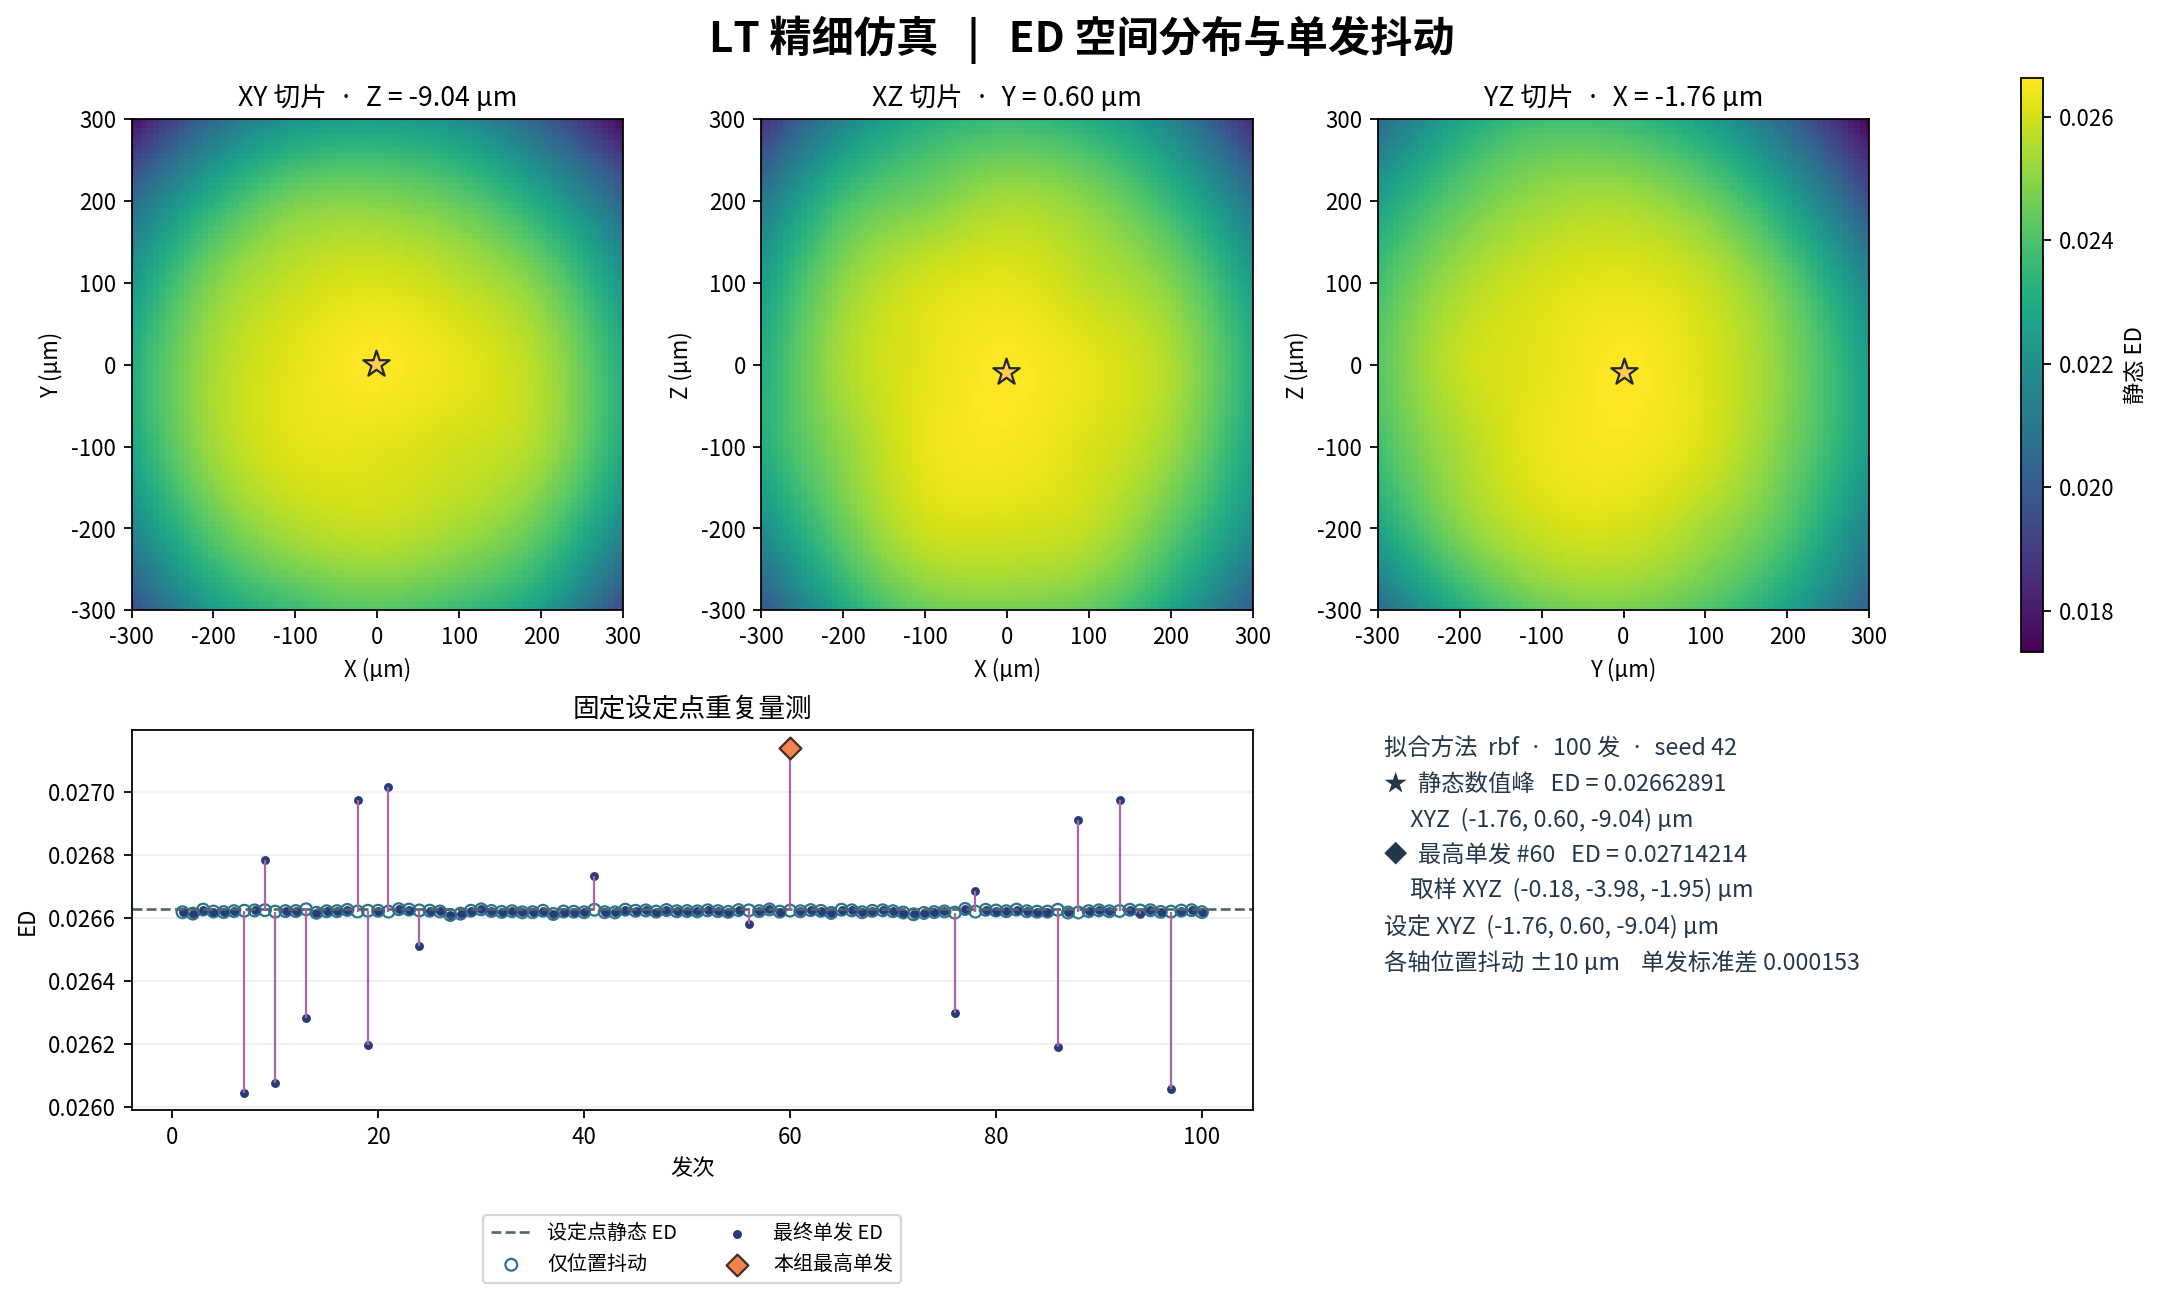
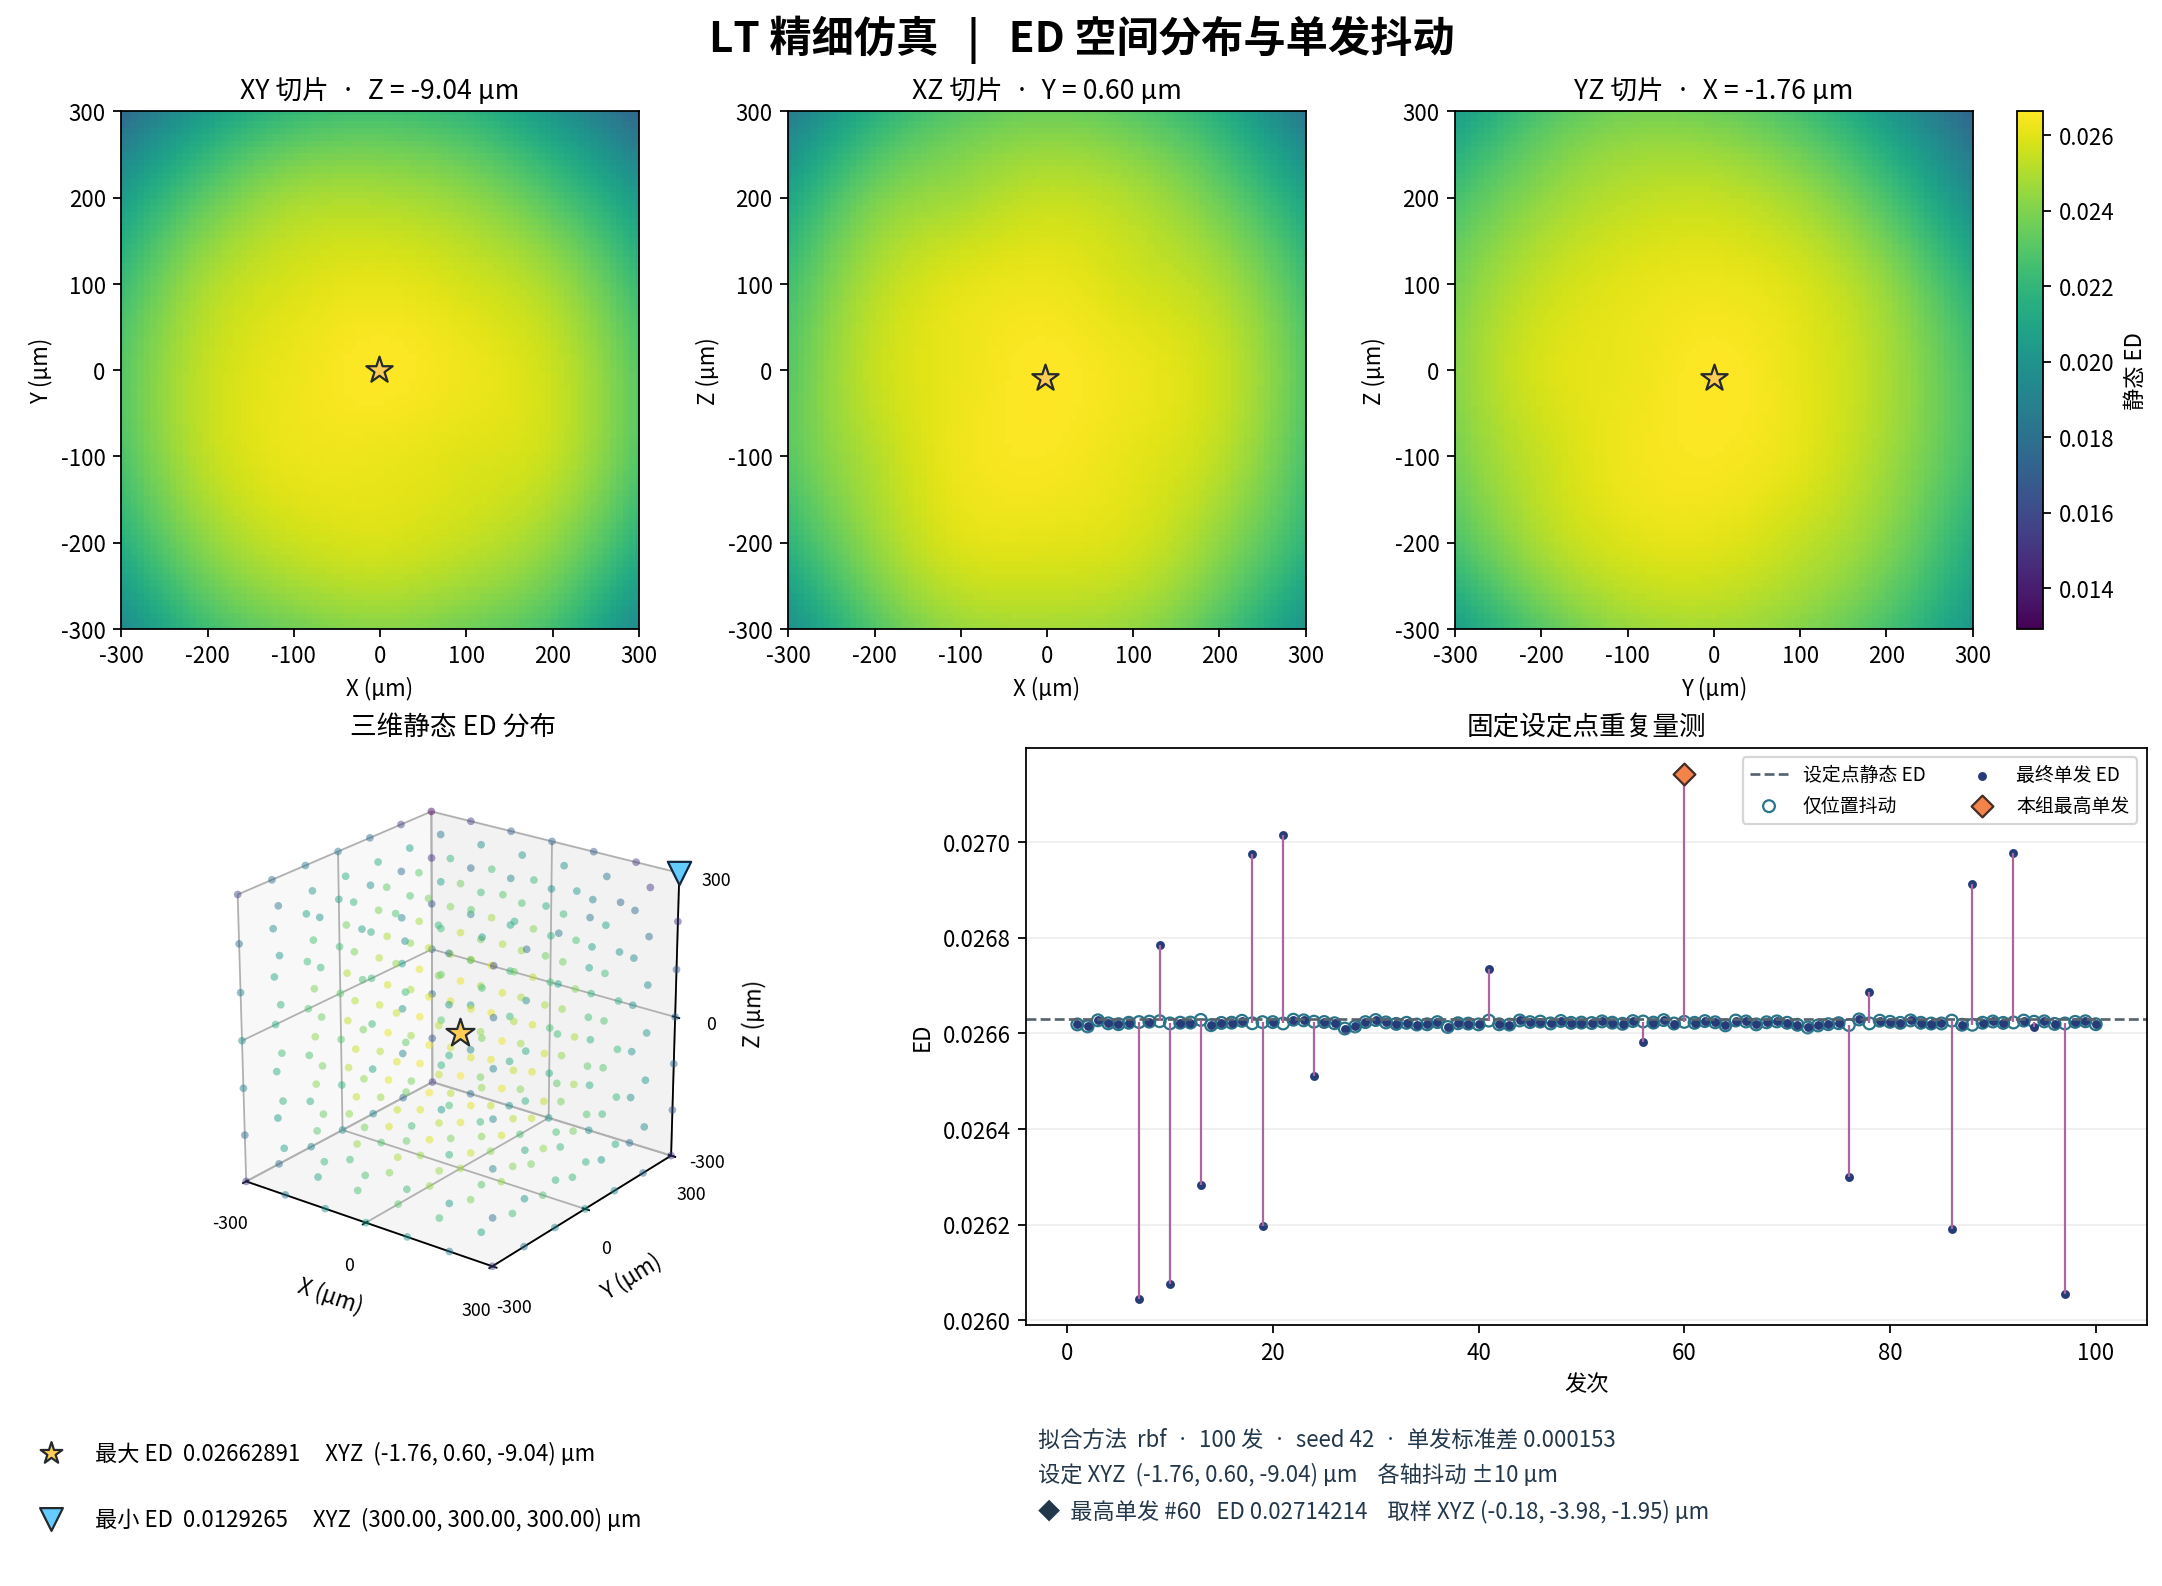
Show the 3D ED distribution and label both bounded model extrema

diff --git a/plot_fitter.py b/plot_fitter.py
@@ -1,4 +1,4 @@
-"""画 ED 模型切片和同一设定位置的单发抖动。直接运行可预览模型 3 的 RBF 图。
+"""画 ED 模型的三维分布、过峰切片及固定设定位置的单发抖动。
 
 from plot_fitter import plot_fitter_model
 fig, data = plot_fitter_model(data_model=3, fit_method="rbf", save_path="lt3.png")
@@ -23,33 +23,30 @@ def _values(model, xyz):
     return np.array([model.predict(p) for p in xyz])
 
 
-def _find_peak(model, bounds, anchors):
-    """在三维边界内找静态峰：原始点/公式中心、规则网格以及高值区的局部精修。"""
+def _refine_extreme(model, bounds, xyz, ed, sign):
+    """以分散的高值或低值点为起点做有界局部精修。sign=-1 找最大值，+1 找最小值。"""
     lo, hi = bounds.T
-    axis = [np.linspace(a, b, 19) for a, b in bounds]
-    grid = np.stack(np.meshgrid(*axis, indexing="ij"), axis=-1).reshape(-1, 3)
-    xyz = np.vstack((np.clip(anchors, lo, hi), grid))
-    ed = _values(model, xyz)
-    best = int(np.argmax(ed))
-    peak, value = xyz[best].copy(), float(ed[best])
+    order = np.argsort(sign * ed, kind="stable")
+    location = xyz[order[0]].copy()
+    value = float(ed[order[0]])
     scale = max(float(np.ptp(ed)), 1e-12)
 
-    # 在单位立方体内精修；起点稍微分散，避免多峰情况下总在同一小片区域启动。
+    # 在单位立方体内精修，分散起点以覆盖多个高值区或低值区。
     starts = []
-    for index in np.argsort(-ed, kind="stable"):
+    for index in order:
         u = (xyz[index] - lo) / (hi - lo)
         if all(np.linalg.norm(u - old) > 0.12 for old in starts):
             starts.append(u)
         if len(starts) == 8:
             break
     for u in starts:
-        fit = minimize(lambda t: -model.predict(lo + t * (hi - lo)) / scale, u,
+        fit = minimize(lambda t: sign * model.predict(lo + t * (hi - lo)) / scale, u,
                        method="L-BFGS-B", bounds=[(0, 1)] * 3)
         point = lo + np.clip(fit.x, 0, 1) * (hi - lo)
         prediction = model.predict(point)
-        if prediction > value:
-            peak, value = point, float(prediction)
-    return peak, value
+        if sign * prediction < sign * value:
+            location, value = point, float(prediction)
+    return location, value
 
 
 class _ShotProbe:
@@ -77,7 +74,8 @@ def plot_fitter_model(data_model=3, fit_method="rbf", *, formula_model=None, pea
 
     数据模式从 MODEL_DATA 读取，fit_parameters 与 EDFitter 一致。传 formula_model
     时使用公式模型及其 peaks。data 包含每一发的真实取样坐标、位置抖动后的空间 ED、
-    最终单发 ED、PF，以及峰位、峰值和观测最高发次（从 1 开始）。
+    最终单发 ED、PF，以及静态数值极值 peak_ed/peak_xyz 和 min_ed/min_xyz、
+    观测最高发次（从 1 开始）。同值有多处时标记其中一个位置。
     """
     if shots < 1:
         raise ValueError("shots 至少为 1")
@@ -95,7 +93,13 @@ def plot_fitter_model(data_model=3, fit_method="rbf", *, formula_model=None, pea
         title = formula_model
         method = "生成方法  解析公式"
 
-    peak, peak_ed = _find_peak(model, bounds, anchors)
+    # 两个极值共用同一次三维网格预测；包含边界、八个角及模型原始点。
+    axes = [np.linspace(a, b, 19) for a, b in bounds]
+    grid = np.stack(np.meshgrid(*axes, indexing="ij"), axis=-1)
+    candidates = np.vstack((np.clip(anchors, *bounds.T), grid.reshape(-1, 3)))
+    predictions = _values(model, candidates)
+    peak, peak_ed = _refine_extreme(model, bounds, candidates, predictions, -1)
+    low, low_ed = _refine_extreme(model, bounds, candidates, predictions, 1)
     center = peak.copy() if setpoint is None else np.asarray(setpoint, dtype=float)
     center_ed = model.predict(center)
     probe = _ShotProbe(model)
@@ -111,7 +115,8 @@ def plot_fitter_model(data_model=3, fit_method="rbf", *, formula_model=None, pea
     positions = np.asarray(positions)
     spatial_ed, measured_ed = np.asarray(spatial_ed), np.asarray(measured_ed)
     best = int(np.argmax(measured_ed))
-    data = dict(peak_xyz=peak, peak_ed=peak_ed, setpoint=center, setpoint_ed=center_ed,
+    data = dict(peak_xyz=peak, peak_ed=peak_ed, min_xyz=low, min_ed=low_ed,
+                setpoint=center, setpoint_ed=center_ed,
                 sample_xyz=positions, spatial_ed=spatial_ed, ed=measured_ed, pf=np.array(pf),
                 best_shot=best + 1, best_shot_xyz=positions[best], best_shot_ed=measured_ed[best])
 
@@ -125,22 +130,53 @@ def plot_fitter_model(data_model=3, fit_method="rbf", *, formula_model=None, pea
         xyz[:, i], xyz[:, j] = xx.ravel(), yy.ravel()
         z = _values(model, xyz).reshape(xx.shape)
         planes.append((i, j, fixed, a, b, z))
-    norm = Normalize(min(p[-1].min() for p in planes), max(p[-1].max() for p in planes))
+    norm = Normalize(min(low_ed, *(p[-1].min() for p in planes)),
+                     max(peak_ed, *(p[-1].max() for p in planes)))
     style = {"font.sans-serif": ["Microsoft YaHei", "Noto Sans CJK SC", "Noto Sans CJK JP",
                                  "SimHei", "PingFang SC", "DejaVu Sans"], "axes.unicode_minus": False}
     with plt.rc_context(style):
-        fig = plt.figure(figsize=(13.4, 8.0), layout="constrained")
-        gs = fig.add_gridspec(2, 4, width_ratios=[1, 1, 1, .046], height_ratios=[1.3, .86])
+        fig = plt.figure(figsize=(13.4, 9.8), layout="constrained")
+        rows = fig.add_gridspec(2, 1, height_ratios=[.98, 1.34])
+        top = rows[0].subgridspec(1, 4, width_ratios=[1, 1, 1, .046])
+        bottom = rows[1].subgridspec(2, 2, width_ratios=[.92, 1.18], height_ratios=[3.1, .85])
         fig.suptitle(f"{title}   |   ED 空间分布与单发抖动", fontsize=19, fontweight="bold")
         for col, (i, j, fixed, a, b, z) in enumerate(planes):
-            ax = fig.add_subplot(gs[0, col])
+            ax = fig.add_subplot(top[0, col])
             im = ax.pcolormesh(a, b, z, shading="auto", cmap="viridis", norm=norm)
             ax.scatter(peak[i], peak[j], marker="*", s=155, c="#ffcd55", edgecolors="#24292d")
             ax.set(xlim=bounds[i], ylim=bounds[j], aspect="equal",
                    xlabel=f"{'XYZ'[i]} (µm)", ylabel=f"{'XYZ'[j]} (µm)",
                    title=f"{'XYZ'[i]}{'XYZ'[j]} 切片  ·  {'XYZ'[fixed]} = {peak[fixed]:.2f} µm")
-        fig.colorbar(im, cax=fig.add_subplot(gs[0, 3]), label="静态 ED")
-        ax = fig.add_subplot(gs[1, :2])
+        fig.colorbar(im, cax=fig.add_subplot(top[0, 3]), label="静态 ED")
+
+        ax3d = fig.add_subplot(bottom[0, 0], projection="3d", computed_zorder=False)
+        # 三维图只抽稀显示规则网格；极值仍使用全部候选点和局部精修结果。
+        volume_ed = predictions[len(anchors):].reshape(grid.shape[:-1])
+        visible = grid[::3, ::3, ::3].reshape(-1, 3)
+        colors = volume_ed[::3, ::3, ::3].ravel()
+        ax3d.scatter(*visible.T, c=colors, cmap="viridis", norm=norm, alpha=.48,
+                     s=12, linewidths=0, depthshade=False, zorder=1)
+        ax3d.scatter(*low, marker="v", s=110, c="#66ccff", edgecolors="#13283f", zorder=3)
+        ax3d.scatter(*peak, marker="*", s=175, c="#ffcd55", edgecolors="#24292d", zorder=4)
+        ax3d.set(xlim=bounds[0], ylim=bounds[1], zlim=bounds[2],
+                 xlabel="X (µm)", ylabel="Y (µm)", zlabel="Z (µm)", title="三维静态 ED 分布")
+        ax3d.set_box_aspect(np.ptp(bounds, axis=1), zoom=.9)
+        for axis, (start, stop) in zip((ax3d.xaxis, ax3d.yaxis, ax3d.zaxis), bounds):
+            axis.set_ticks(np.linspace(start, stop, 3))
+            axis.set_tick_params(labelsize=8)
+        ax3d.view_init(elev=23, azim=-53)
+        extrema = fig.add_subplot(bottom[1, 0])
+        extrema.axis("off")
+        for y, marker, color, label, val, point in [
+            (.74, "*", "#ffcd55", "最大", peak_ed, peak),
+            (.32, "v", "#66ccff", "最小", low_ed, low),
+        ]:
+            extrema.scatter(.04, y, marker=marker, s=105, c=color, edgecolors="#24292d",
+                            transform=extrema.transAxes)
+            extrema.text(.09, y, f"{label} ED  {val:.7g}     XYZ  {_xyz_text(point)} µm",
+                         va="center", transform=extrema.transAxes)
+
+        ax = fig.add_subplot(bottom[0, 1])
         n = np.arange(1, shots + 1)
         ax.axhline(center_ed, ls="--", lw=1.2, color="#56626d", label="设定点静态 ED")
         ax.vlines(n, spatial_ed, measured_ed, color="#ac65a0", lw=1)
@@ -150,17 +186,13 @@ def plot_fitter_model(data_model=3, fit_method="rbf", *, formula_model=None, pea
                    s=48, zorder=4, label="本组最高单发")
         ax.set(title="固定设定点重复量测", xlabel="发次", ylabel="ED")
         ax.grid(axis="y", alpha=.2)
-        ax.legend(loc="upper center", bbox_to_anchor=(.5, -.25), ncol=2, fontsize=9)
-        info = fig.add_subplot(gs[1, 2:])
+        ax.legend(loc="best", ncol=2, fontsize=8.5)
+        info = fig.add_subplot(bottom[1, 1])
         info.axis("off")
-        block = (f"{method}  ·  {shots} 发  ·  seed {seed}\n"
-                 f"★  静态数值峰   ED = {peak_ed:.7g}\n"
-                 f"     XYZ  {_xyz_text(peak)} µm\n"
-                 f"◆  最高单发 #{best + 1}   ED = {measured_ed[best]:.7g}\n"
-                 f"     取样 XYZ  {_xyz_text(positions[best])} µm\n"
-                 f"设定 XYZ  {_xyz_text(center)} µm\n"
-                 f"各轴位置抖动 ±{position_half_width:g} µm    单发标准差 {np.std(measured_ed):.3g}")
-        info.text(.01, .98, block, va="top", linespacing=1.65, fontsize=10.5, color="#23374a")
+        block = (f"{method}  ·  {shots} 发  ·  seed {seed}  ·  单发标准差 {np.std(measured_ed):.3g}\n"
+                 f"设定 XYZ  {_xyz_text(center)} µm    各轴抖动 ±{position_half_width:g} µm\n"
+                 f"◆  最高单发 #{best + 1}   ED {measured_ed[best]:.7g}    取样 XYZ {_xyz_text(positions[best])} µm")
+        info.text(.01, .90, block, va="top", linespacing=1.65, fontsize=10, color="#23374a")
         if save_path:
             path = Path(save_path)
             path.parent.mkdir(parents=True, exist_ok=True)
